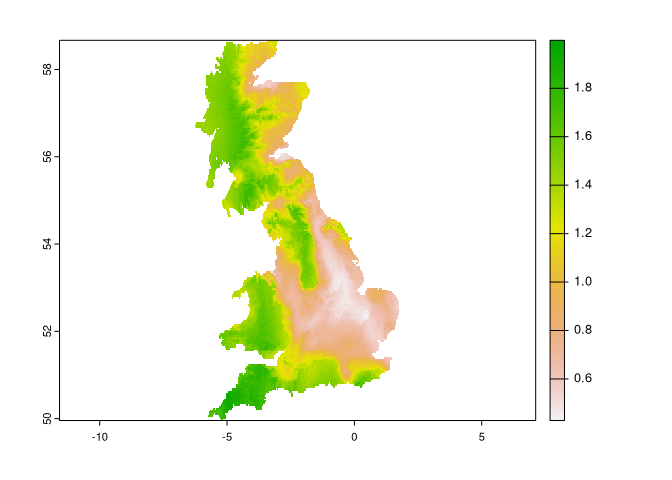
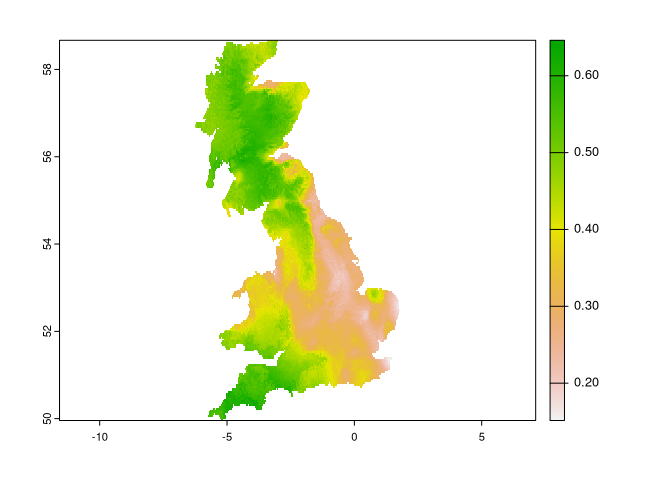
imprves readme

diff --git a/README.md b/README.md
@@ -25,22 +25,22 @@ devtools::install_github("Nowosad/spquery")
 
 ``` r
 library(terra)
-#> terra 1.5.40
+#> terra 1.5.41
 library(sf)
 #> Linking to GEOS 3.10.2, GDAL 3.4.3, PROJ 8.2.1; sf_use_s2() is TRUE
 library(spquery)
 ```
 
 ``` r
-ta = rast(system.file("raster/ta_scaled.tif", package = "spquery"))
-plot(ta)
+ta = rast(system.file("raster/ta_scaled.tif", package = "spquery"))[[1:4]]
+plot(ta, nr = 1)
 ```
 
 <img src="man/figures/README-unnamed-chunk-3-1.png" width="100%" />
 
 ``` r
-pr = rast(system.file("raster/pr_scaled.tif", package = "spquery"))
-plot(pr)
+pr = rast(system.file("raster/pr_scaled.tif", package = "spquery"))[[1:4]]
+plot(pr, nr = 1)
 ```
 
 <img src="man/figures/README-unnamed-chunk-4-1.png" width="100%" />
